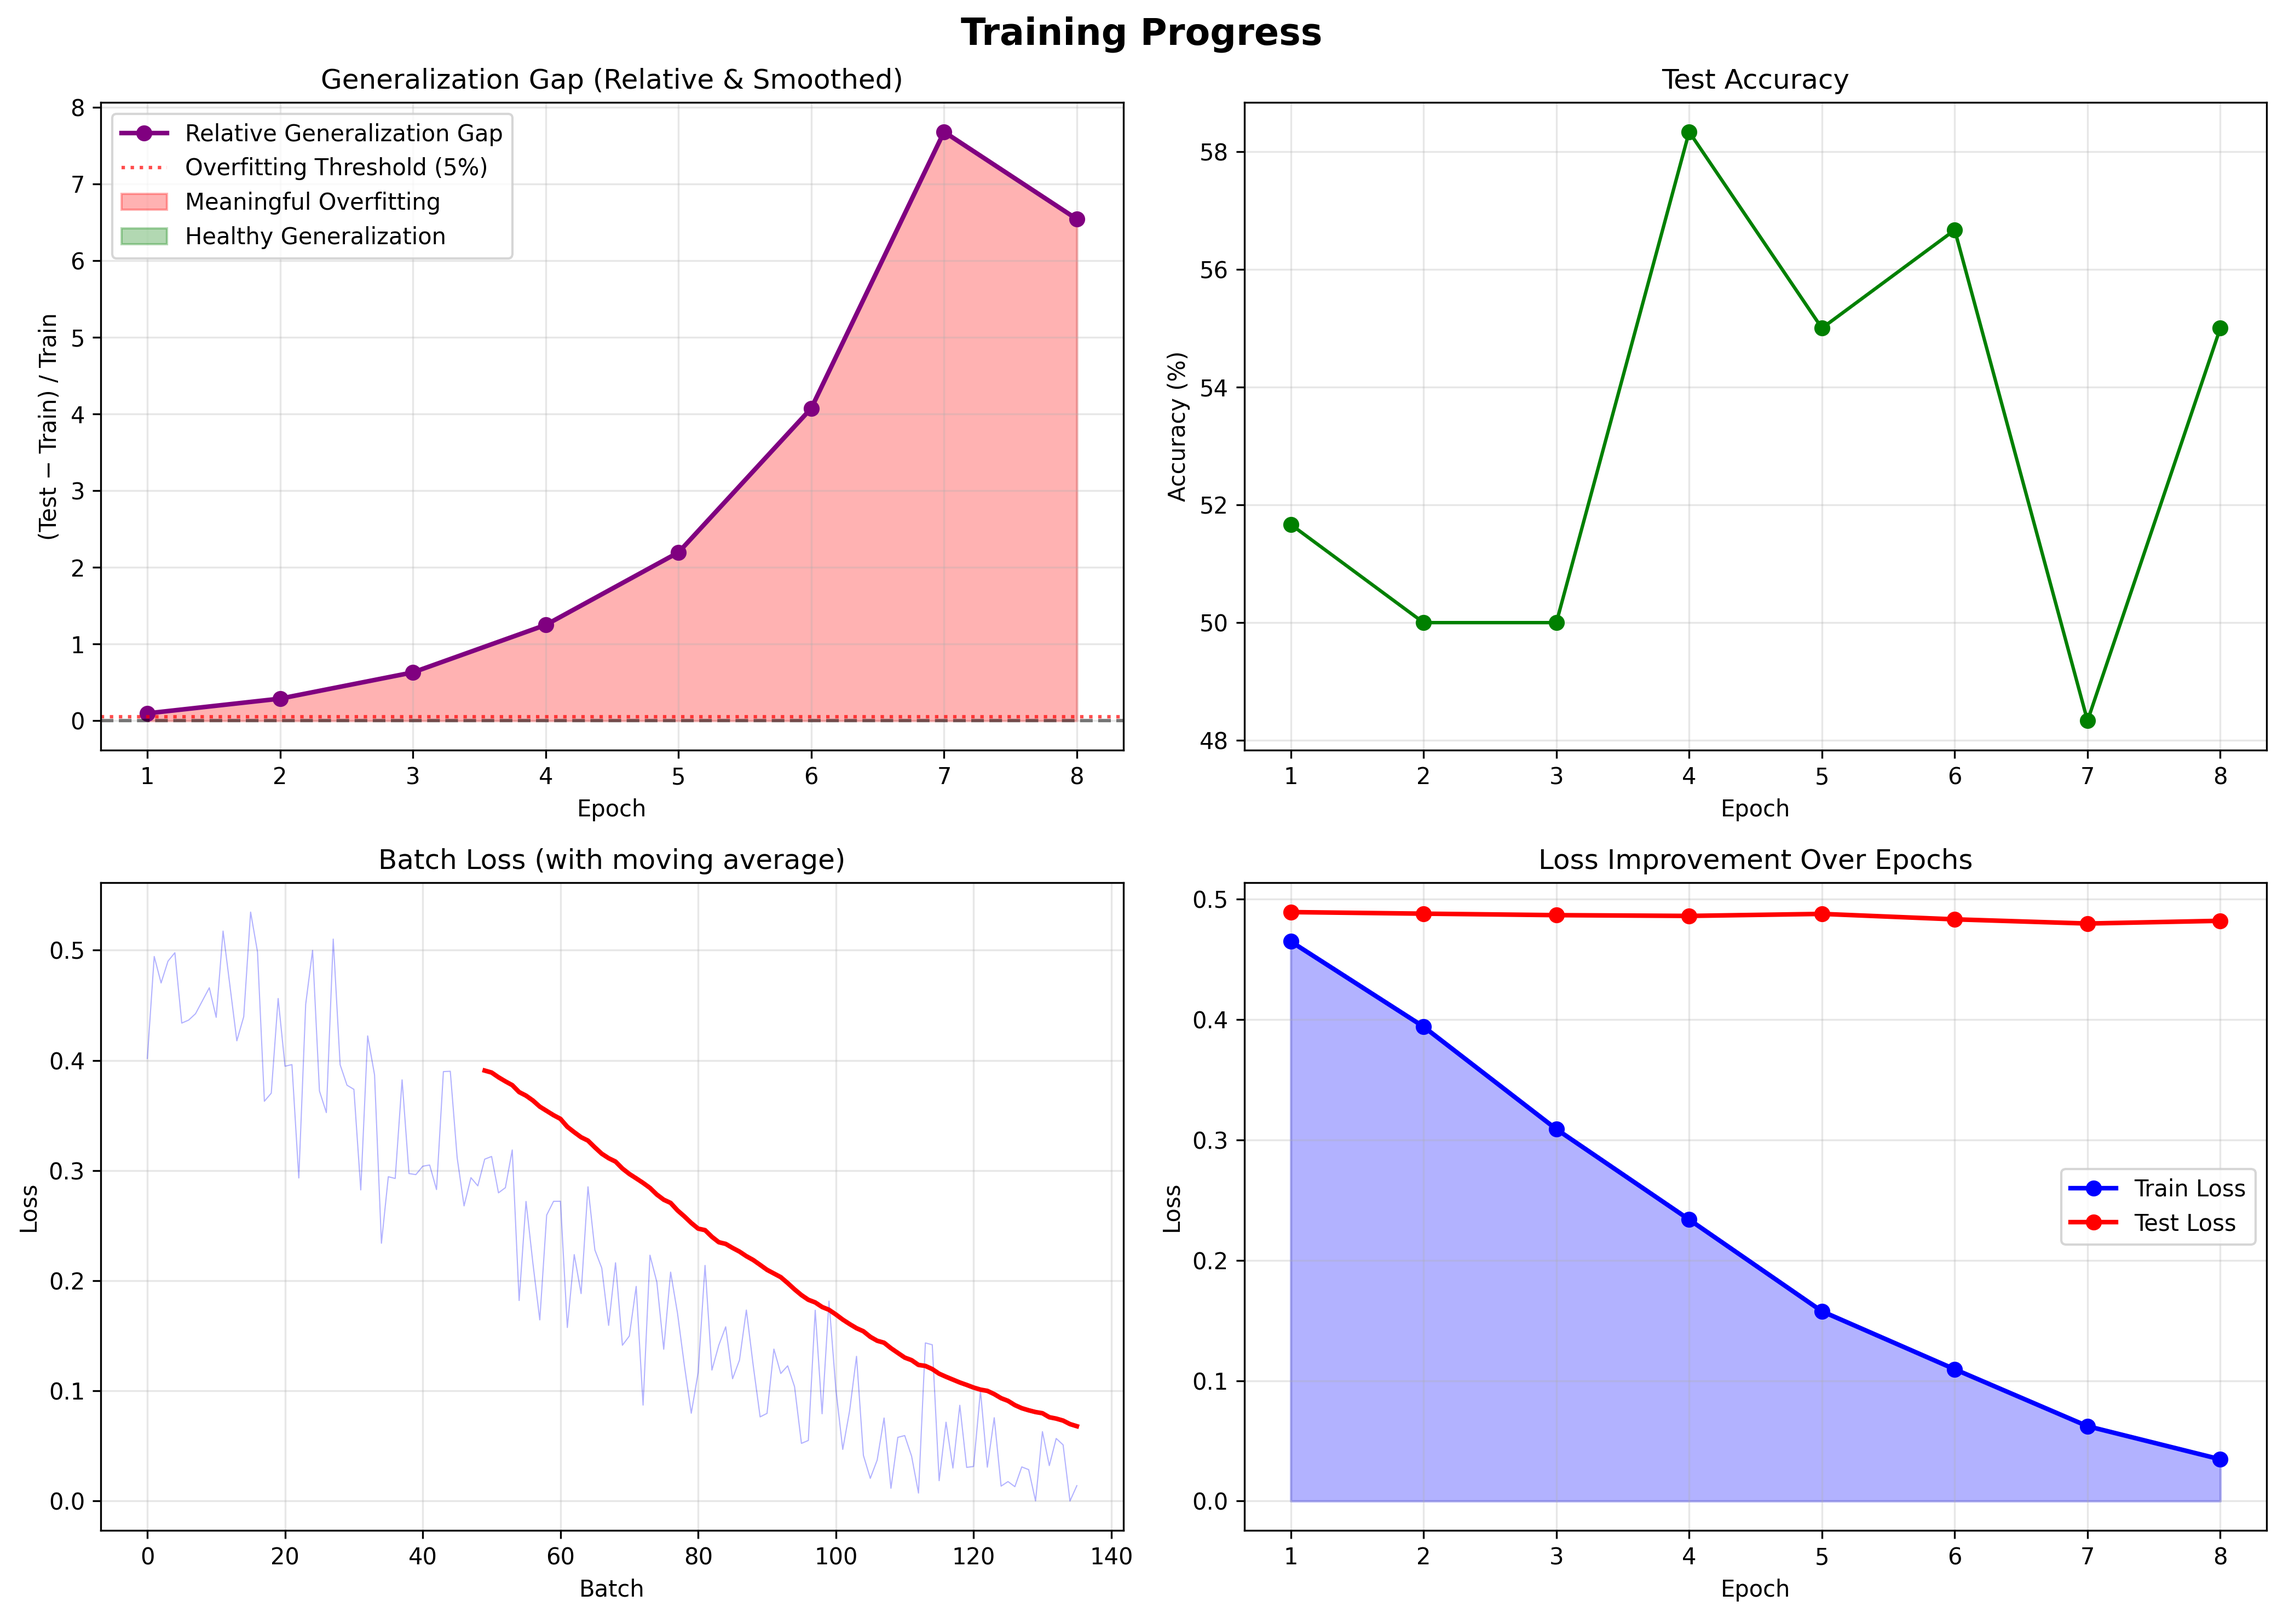
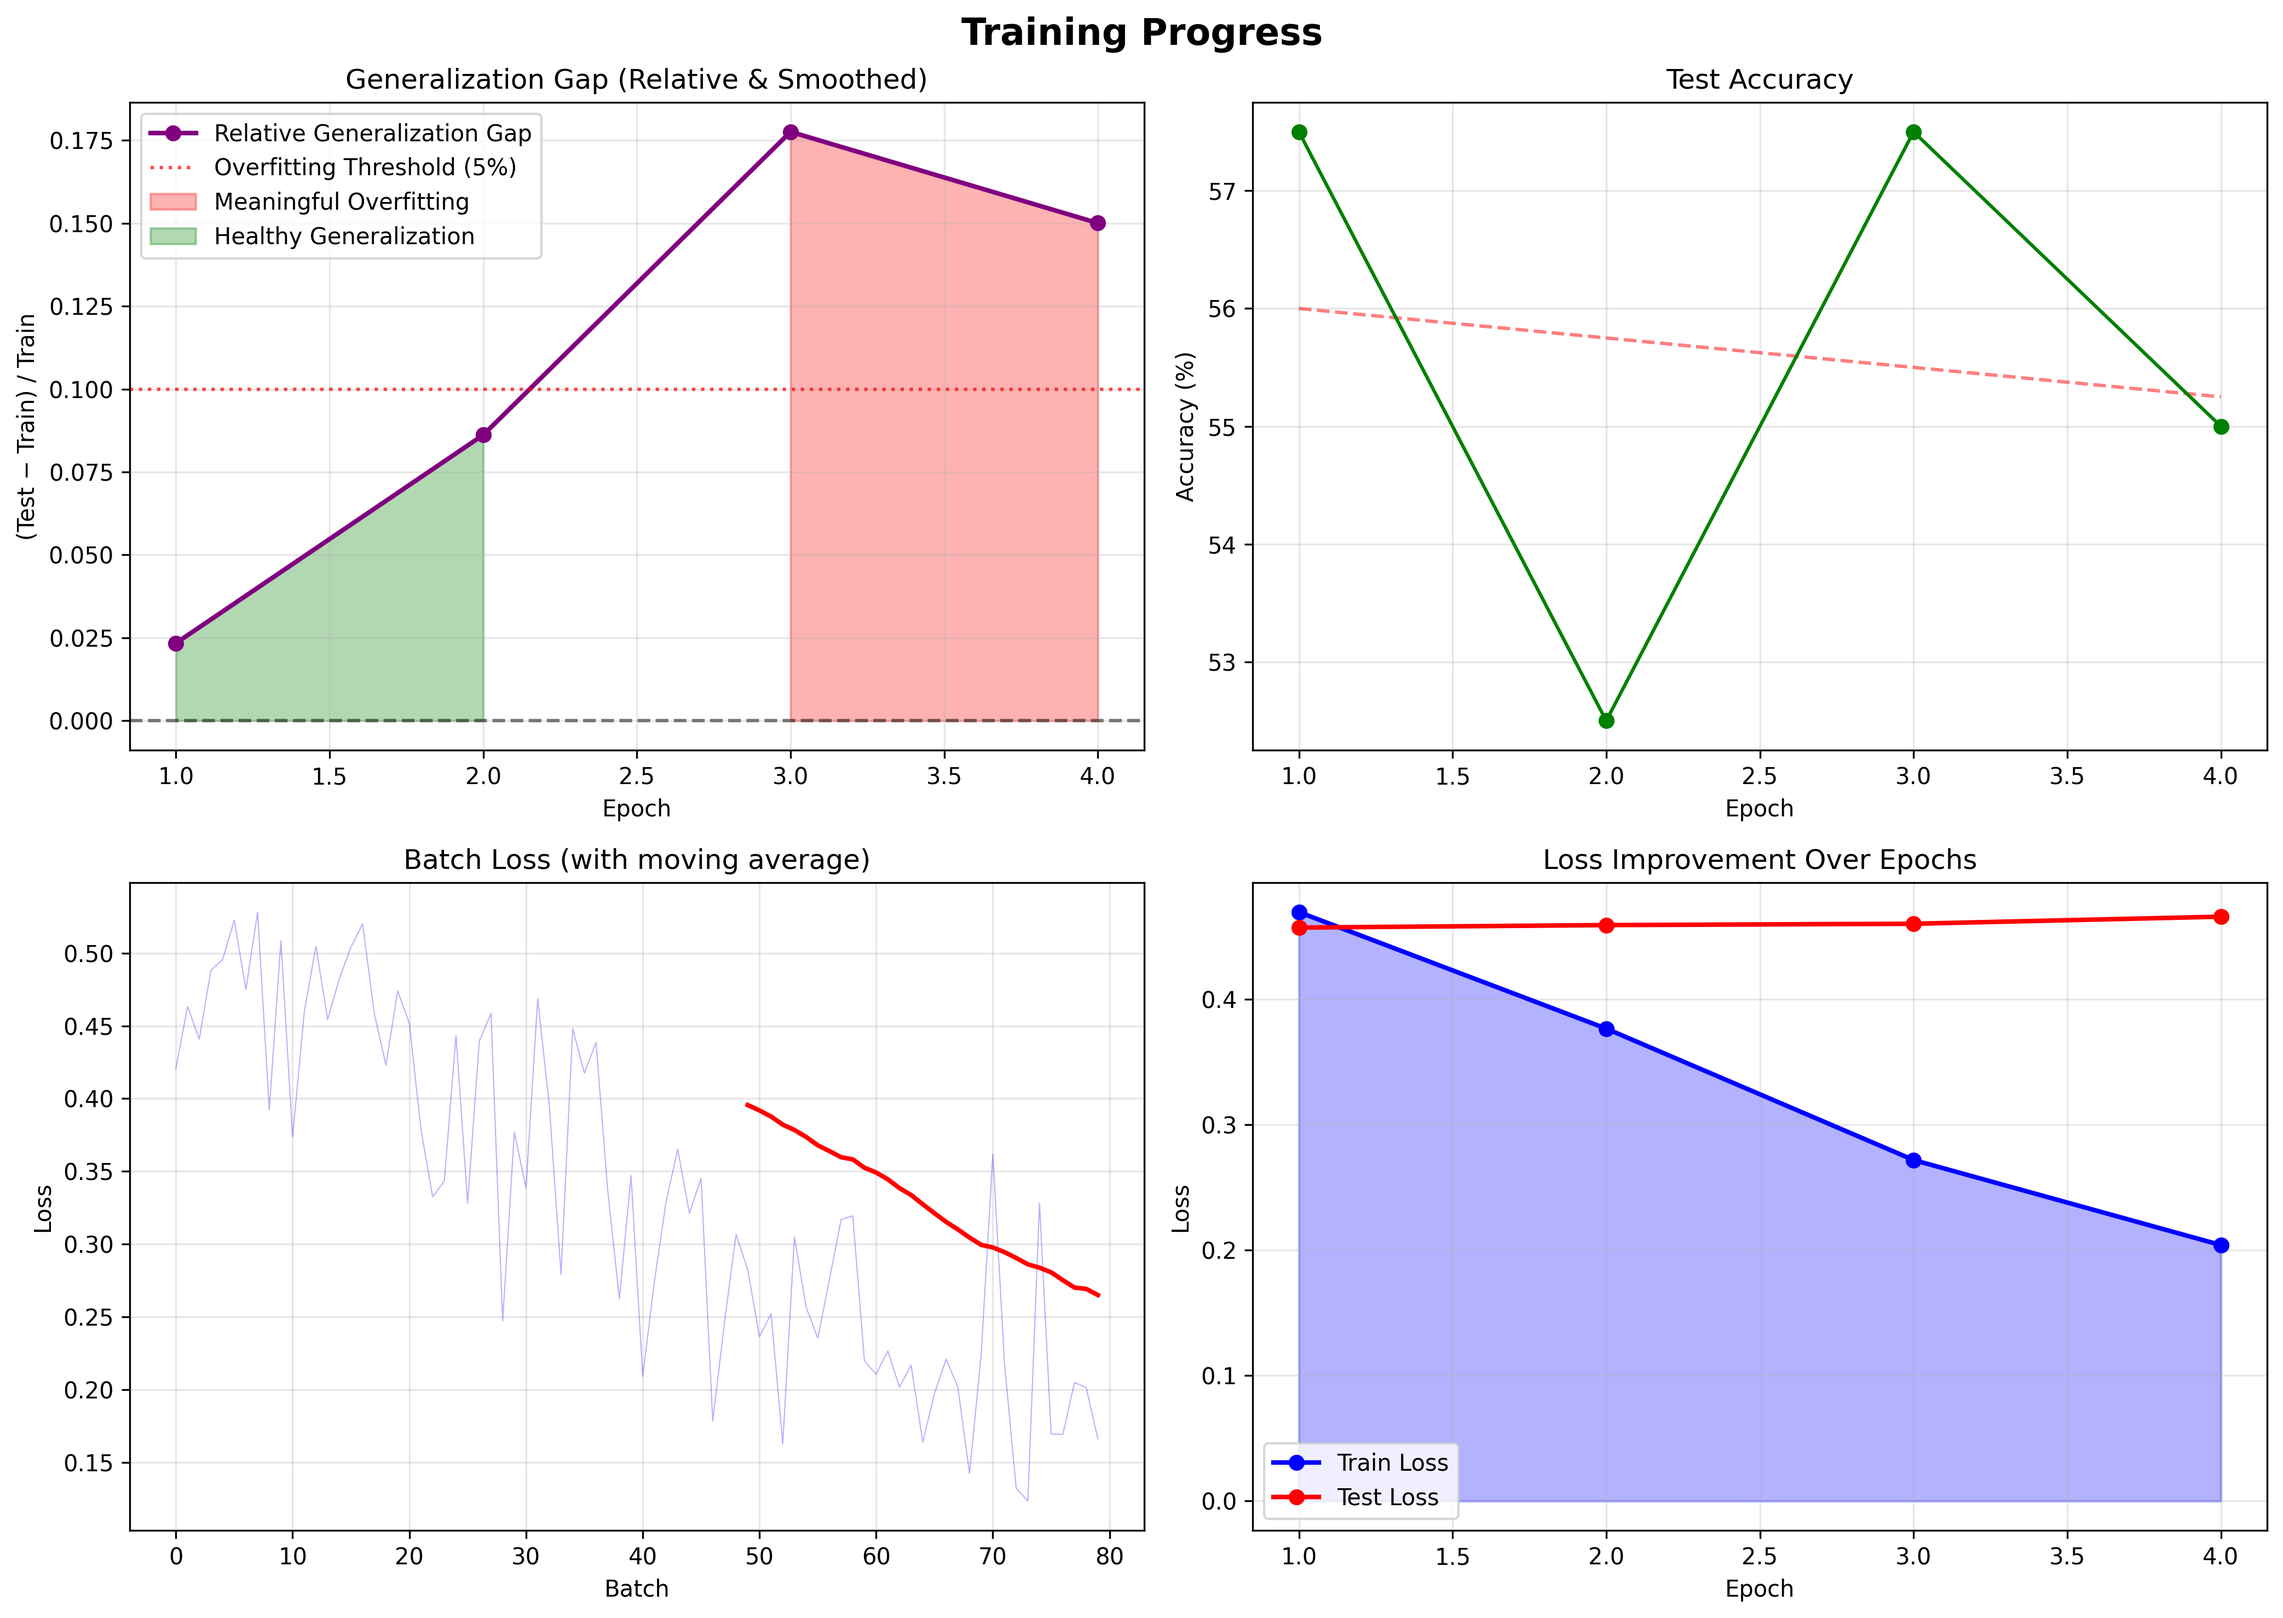
Attempt at resollving overfitting changing model and parameters

diff --git a/track_b.py b/track_b.py
@@ -126,10 +126,14 @@ def plot_training_progress(history: Dict, output_path: str):
     # 4. Loss Margin (Difference between Train and Test Loss)
 
     # --- Compute relative generalization gap ---
+    #relative_gap = [
+       # (test - train) / train
+        #for test, train in zip(history['test_loss'], history['train_loss'])
+    #]
     relative_gap = [
-        (test - train) / train
+        (test - train)
         for test, train in zip(history['test_loss'], history['train_loss'])
-    ]
+        ]
 
     epochs = history['epoch']
 
@@ -140,7 +144,7 @@ def plot_training_progress(history: Dict, output_path: str):
     )
 
     # --- Define meaningful overfitting threshold (5%) ---
-    threshold = 0.05
+    threshold = 0.1# changing from 0.05 to 0.1
 
     # --- Plot ---
     axes[0, 0].plot(
@@ -192,6 +196,11 @@ def plot_training_progress(history: Dict, output_path: str):
     axes[0, 0].set_title('Generalization Gap (Relative & Smoothed)')
     axes[0, 0].legend()
     axes[0, 0].grid(True, alpha=0.3)
+    if len(history['epoch']) > 1:
+        z = np.polyfit(history['epoch'], [a * 100 for a in history['test_accuracy']], 1)
+        p = np.poly1d(z)
+        axes[0, 1].plot(history['epoch'], p(history['epoch']),
+                        "r--", alpha=0.5, label=f'Trend: {z[0]:+.2f}%/epoch')
 
     # 2. Test Accuracy
     axes[0, 1].plot(history['epoch'], [a * 100 for a in history['test_accuracy']], 'g-o')
@@ -237,6 +246,26 @@ def plot_training_progress(history: Dict, output_path: str):
           f"({(1 - history['train_loss'][-1] / history['train_loss'][0]) * 100:.1f}% improvement)")
     print(f"Accuracy: {history['test_accuracy'][0] * 100:.1f}% → {history['test_accuracy'][-1] * 100:.1f}%")
     print(f"{'=' * 60}")
+
+
+class EarlyStopping:
+    def __init__(self, patience=2, min_delta=0.005):
+        self.patience = patience
+        self.min_delta = min_delta
+        self.counter = 0
+        self.best_score = None
+        self.early_stop = False
+
+    def __call__(self, val_score):
+        if self.best_score is None:
+            self.best_score = val_score
+        elif val_score < self.best_score + self.min_delta:
+            self.counter += 1
+            if self.counter >= self.patience:
+                self.early_stop = True
+        else:
+            self.best_score = val_score
+            self.counter = 0
 def fine_tune_model(model_name: str, train_data: List[InputExample],
                     test_data: List[InputExample], epochs: int = 3,
                     batch_size: int = 8,
@@ -265,7 +294,11 @@ def fine_tune_model(model_name: str, train_data: List[InputExample],
             dropout_layers_found += 1
     print(f"  Configured {dropout_layers_found} dropout layers")
     # Setup optimizer
-    optimizer = AdamW(model.parameters(), lr=learning_rate, weight_decay=0.1)
+    optimizer = AdamW(model.parameters(), lr=learning_rate, weight_decay=0.01)
+
+    # Add scheduler
+    from torch.optim.lr_scheduler import ReduceLROnPlateau
+    scheduler = ReduceLROnPlateau(optimizer, mode='max', factor=0.5, patience=1, verbose=True)
 
     # Calculate training steps
     num_batches = len(train_data) // batch_size
@@ -355,6 +388,7 @@ def fine_tune_model(model_name: str, train_data: List[InputExample],
             epoch_losses.append(batch_loss)
             history['batch_losses'].append(batch_loss)
 
+
             # Learning rate warmup
             if global_step < warmup_steps:
                 lr_scale = float(global_step + 1) / float(max(1, warmup_steps))
@@ -395,6 +429,13 @@ def fine_tune_model(model_name: str, train_data: List[InputExample],
         history['train_loss'].append(avg_train_loss)
         history['test_loss'].append(test_loss)
         history['test_accuracy'].append(test_accuracy)
+        scheduler.step(test_accuracy)
+        best_test_accuracy = 0.0
+        early_stopping = EarlyStopping(patience=2, min_delta=0.005)
+        if early_stopping.early_stop:
+            print(f"\n⚠ Early stopping triggered after epoch {epoch + 1}")
+            break
+
 
     print(f"\n{'='*60}")
     print(f"Training complete!")
@@ -582,22 +623,29 @@ def main():
     MODE = "fine_tune"  # Options: "zero_shot", "fine_tune"
 
     # Model selection - Consider using smaller models for CPU
-    MODEL_NAME = "sentence-transformers/all-MiniLM-L6-v2"  # Faster on CPU (384-dim)
+    MODEL_NAME = "sentence-transformers/all-MiniLM-L12-v2"
+        # "sentence-transformers/all-MiniLM-L6-v2"  # changing to a smaller modek
     # Alternative: "sentence-transformers/all-mpnet-base-v2" (768-dim, more accurate but slower)
 
     # Fine-tuning parameters - CPU optimized
     # ENHANCED Fine-tuning parameters
-    TRAIN_TEST_SPLIT = 0.3  # 80% train, 20% test - more data for learning
-    EPOCHS = 4 # 3x more epochs for deeper learning
-    BATCH_SIZE = 8  # Larger batches if you have RAM (use 12 if OOM)
-    LEARNING_RATE = 2e-5  # Higher initial LR for faster convergence changing 5e-5 to 2e-5
-    MARGIN = 0.5 # chainging 0.3 to 0.5
+    # TRAIN_TEST_SPLIT = 0.2  # 80% train, 20% test - more data for learning
+    # EPOCHS = 4 # 3x more epochs for deeper learning
+    # BATCH_SIZE = 8  # Larger batches if you have RAM (use 12 if OOM)
+    # LEARNING_RATE = 5e-5  # Higher initial LR for faster convergence changing 5e-5 to 2e-5
+    # MARGIN = 0.5 # chainging 0.3 to 0.5
     # TRAIN_TEST_SPLIT = 0.2  # 80% train, 20% test
     # EPOCHS = 3
     # BATCH_SIZE = 8  # Reduced for CPU efficiency
     # LEARNING_RATE = 2e-5
     # MARGIN = 0.5
-
+    # In fine_tune_model function
+    TRAIN_TEST_SPLIT = 0.15  # More training data
+    EPOCHS = 10
+    BATCH_SIZE = 8
+    LEARNING_RATE = 1e-5  # Much lower LR
+    MARGIN = 0.5
+    DROPOUT_RATE = 0.4
     # Evaluation parameters
     USE_E5_FORMAT = "e5" in MODEL_NAME.lower()
     EVAL_MARGIN = 0.0
